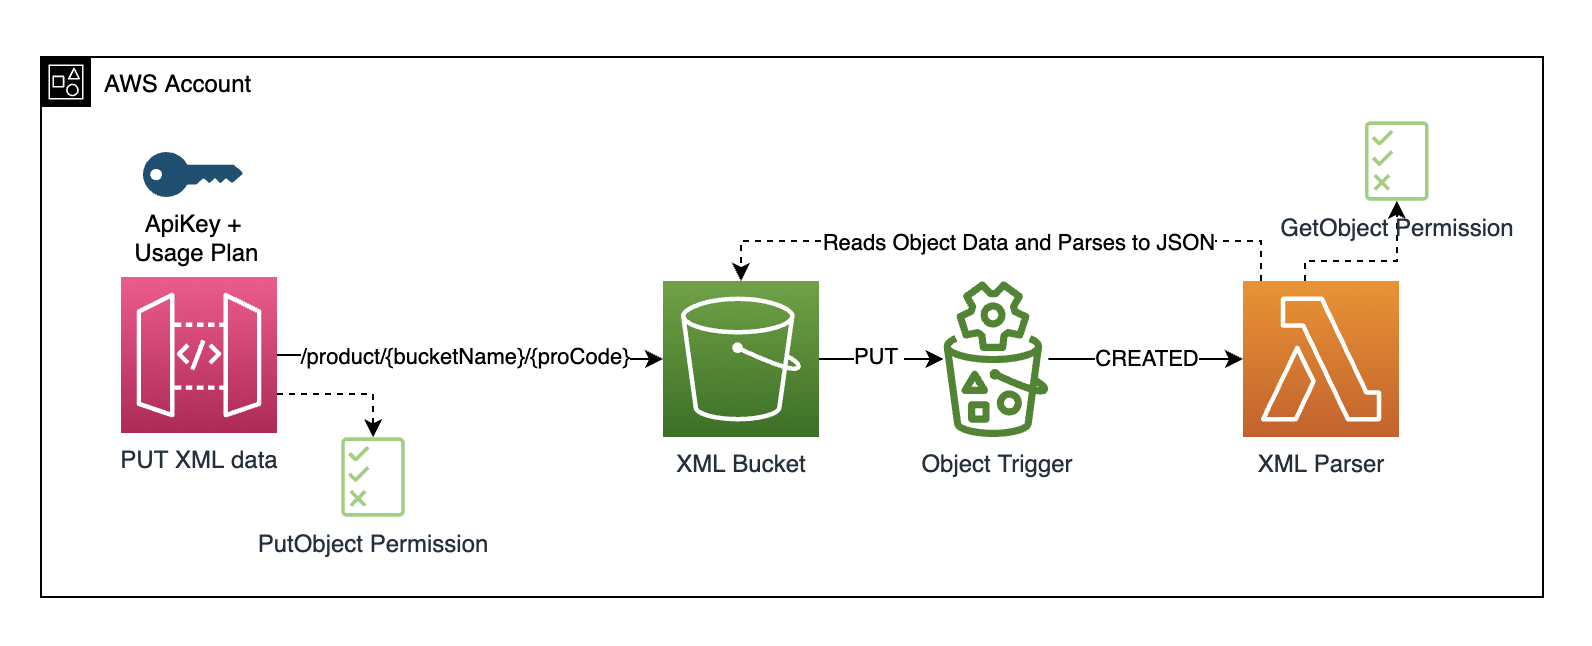
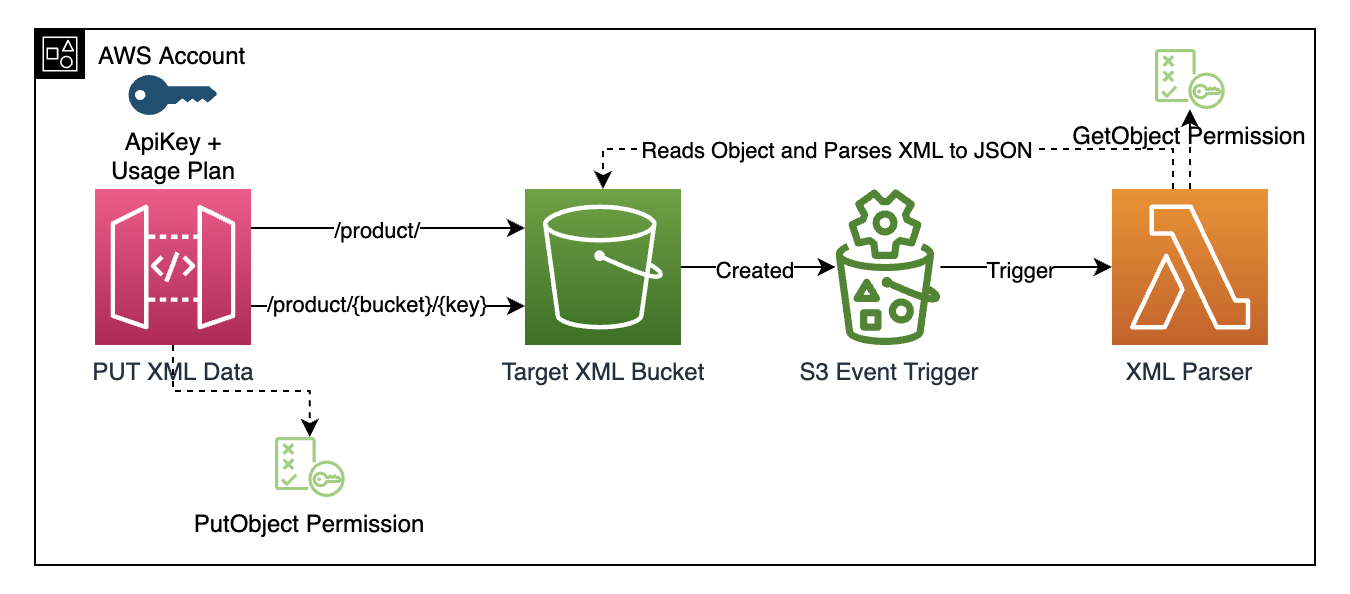
update lambda and doc

Changed region(s): [[0.0, 0.0303, 0.9956, 0.9697], [0.4667, 0.2424, 0.7778, 0.2727]]

diff --git a/lib/serverless-api-s3-direct-stack.ts b/lib/serverless-api-s3-direct-stack.ts
@@ -23,6 +23,11 @@ export class ServerlessApiS3DirectStack extends Stack {
   constructor(scope: Construct, id: string, props?: StackProps) {
     super(scope, id, props);
 
+    // Create a target bucket to drop XML data into
+    const targetBucket = new Bucket(this, "api-target-xml-bucket", {
+      bucketName: "rb-api-target-xml-bucket",
+    });
+
     //Create a new hanlder to parse the XML files
     const xmlParserHandler: NodejsFunction = new NodejsFunction(
       this,
@@ -37,13 +42,9 @@ export class ServerlessApiS3DirectStack extends Stack {
           minify: true,
           externalModules: ["aws-sdk"],
         },
+        environment: { BUCKET_NAME: targetBucket.bucketName },
       }
     );
-
-    // Create a target bucket to drop XML data into
-    const targetBucket = new Bucket(this, "api-target-xml-bucket", {
-      bucketName: "rb-api-target-xml-bucket",
-    });
 
     // Create an event trigger for the lambda when new objects created (inc PUT)
     targetBucket.addEventNotification(
@@ -70,10 +71,10 @@ export class ServerlessApiS3DirectStack extends Stack {
     // Add API resources
     const productResource = XmlApi.root.addResource("product");
     // Add bucket name path
-    const productBucketResource = productResource.addResource("{bucket}");
+    const productBucketResource = productResource.addResource("{bucketName}");
     // Add product code path
-    const productBucketItemResource =
-      productBucketResource.addResource("{procode}");
+    const productBucketKeyResource =
+      productBucketResource.addResource("{objectKey}");
 
     // Create IAM Role for API Gateway
     this.apiGatewayRole = new Role(this, "api-gateway-role", {
@@ -99,8 +100,8 @@ export class ServerlessApiS3DirectStack extends Stack {
         passthroughBehavior: PassthroughBehavior.WHEN_NO_TEMPLATES,
         // Map the path parameters to the S3 integration
         requestParameters: {
-          "integration.request.path.bucket": "method.request.path.bucket",
-          "integration.request.path.object": "method.request.path.procode",
+          "integration.request.path.bucket": "method.request.path.bucketName",
+          "integration.request.path.object": "method.request.path.objectKey",
           "integration.request.header.Accept": "method.request.header.Accept",
         },
         integrationResponses: [
@@ -120,8 +121,8 @@ export class ServerlessApiS3DirectStack extends Stack {
       authorizationType: AuthorizationType.NONE,
       apiKeyRequired: true,
       requestParameters: {
-        "method.request.path.bucket": true,
-        "method.request.path.procode": true,
+        "method.request.path.bucketName": true,
+        "method.request.path.objectKey": true,
         "method.request.header.Accept": true,
         "method.request.header.Content-Type": true,
       },
@@ -136,7 +137,7 @@ export class ServerlessApiS3DirectStack extends Stack {
     };
 
     // Add the API method
-    productBucketItemResource.addMethod(
+    productBucketKeyResource.addMethod(
       "PUT",
       putObjectIntegration,
       putObjectMethodOptions

diff --git a/src/handlers/xml-parser.ts b/src/handlers/xml-parser.ts
@@ -6,6 +6,8 @@ const s3 = new S3();
 const parser = new XMLParser();
 
 export const xmlParserHandler = async (event: S3Event) => {
+  const { BUCKET_NAME: bucketName } = process.env;
+
   for await (const record of event.Records) {
     console.log("Event Name: %s", record.eventName);
     console.log("S3 Request: %j", record.s3);
@@ -13,7 +15,7 @@ export const xmlParserHandler = async (event: S3Event) => {
     const rawS3 = await s3
       .getObject({
         Key: record.s3.object.key,
-        Bucket: "rb-api-target-xml-bucket",
+        Bucket: bucketName || "",
       })
       .promise();
 

diff --git a/README.md b/README.md
@@ -7,7 +7,7 @@
 There are two endpoints in this solution:
 
 - **PUT /product/** - This endpoint configures the **bucket automatically** from the CDK stack and uses the `context.requestId` for the object Keys
-- **PUT /product/{bucket}/{object}** - This endpoint allows the requestor to specify the bucket and object Key manually.
+- **PUT /product/{bucket}/{key}** - This endpoint allows the requestor to specify the bucket and object Key manually.
 
 ## Testing
 
@@ -26,7 +26,7 @@ curl --location --request PUT 'https://{API_ID}.execute-api.eu-west-1.amazonaws.
 ### Endpoint 2 /product/{bucket}/{object}
 
 ```
-curl --location --request PUT 'https://{API_ID}.execute-api.eu-west-1.amazonaws.com/prod/product/rb-api-target-xml-bucket/p1234' \
+curl --location --request PUT 'https://{API_ID}.execute-api.eu-west-1.amazonaws.com/prod/product/{BUCKET}/{KEY}' \
 --header 'Content-Type: application/xml' \
 --header 'x-api-key: MyApiKeyThatIsAtLeast20Characters' \
 --data-raw '<Product>
